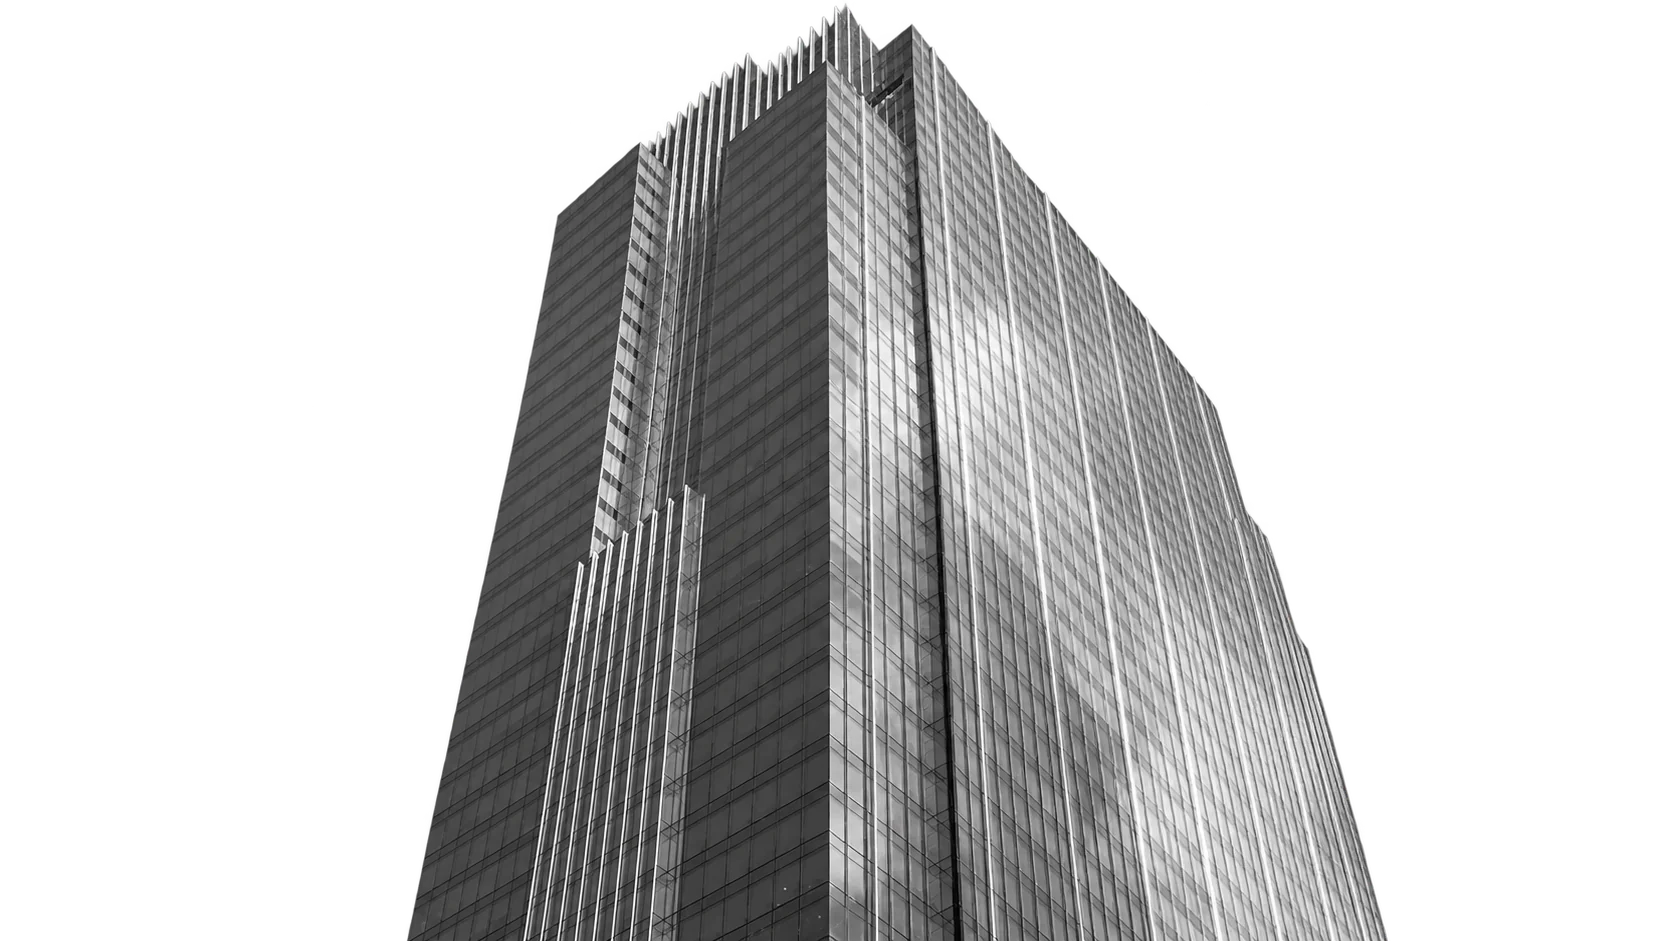
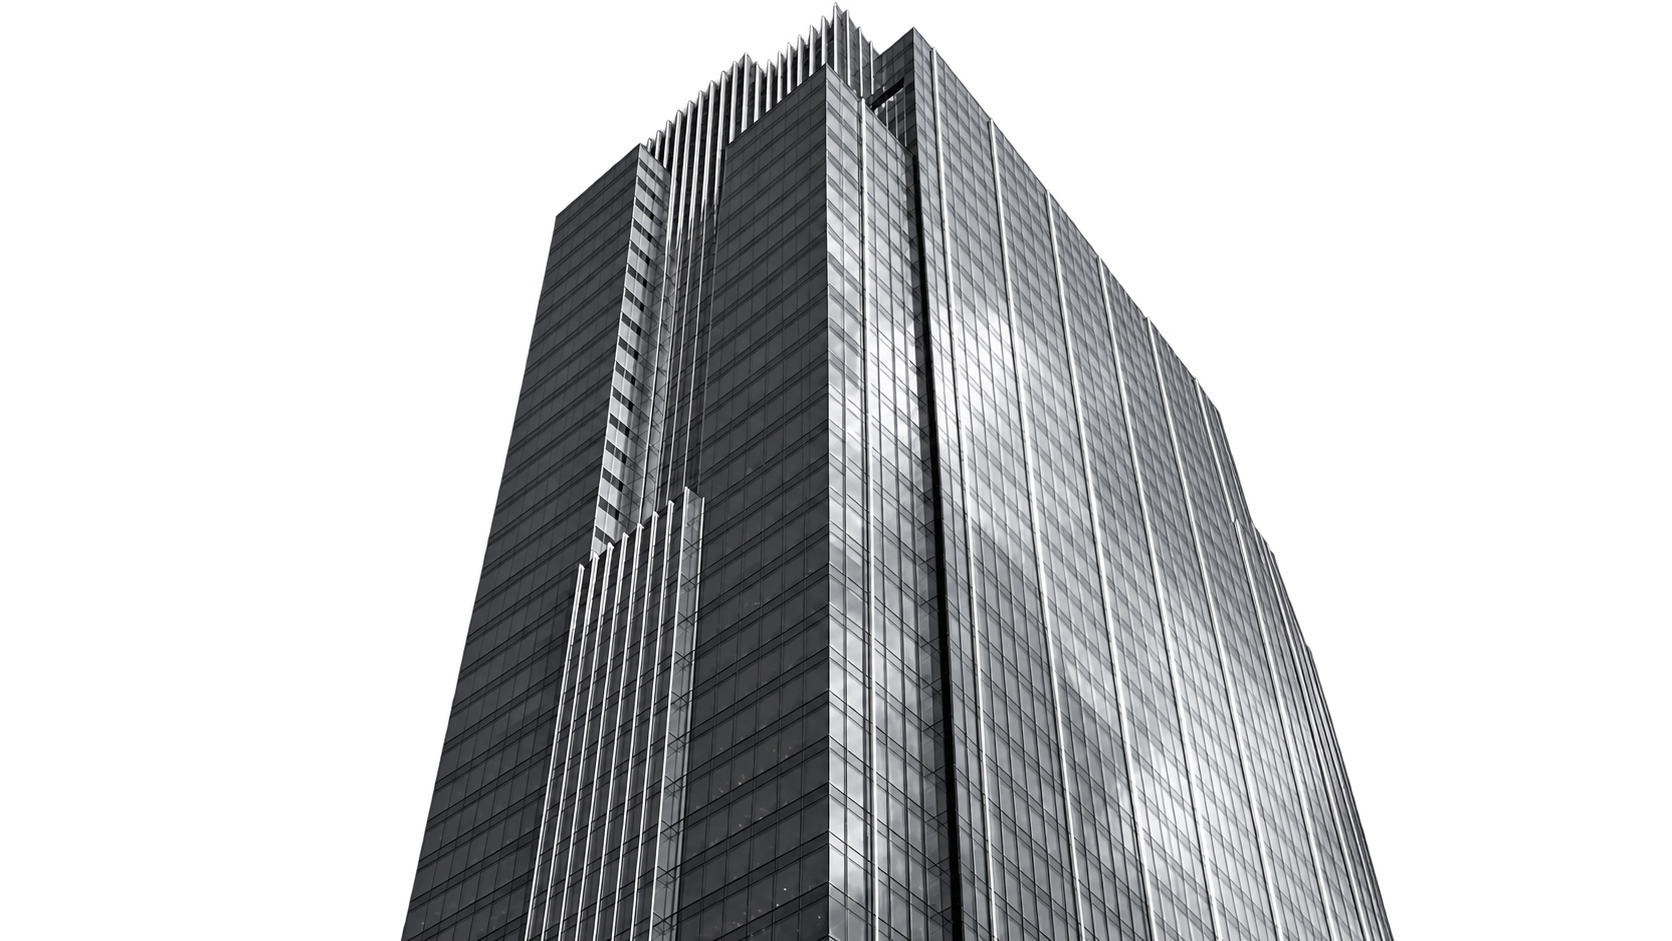
Mejorar filtros y mapa de Noir

Changed region(s): [[0.2799, 0.0, 0.8397, 1.0], [0.2488, 0.7088, 0.2799, 0.9554], [0.2177, 0.9554, 0.2799, 1.0]]

diff --git a/src/app/features/apartments/components/ApartmentMap.tsx b/src/app/features/apartments/components/ApartmentMap.tsx
@@ -1,0 +1,62 @@
+import '../styles/ApartmentMap.css'
+
+interface ApartmentMapProps {
+  location: string
+}
+
+// Referencias geográficas consultadas en OpenStreetMap; no son direcciones de los apartamentos.
+const locations = [
+  { name: 'Escazú', latitude: 9.9159921, longitude: -84.1409588 },
+  { name: 'Santa Ana', latitude: 9.9179767, longitude: -84.1915696 },
+  { name: 'Rohrmoser', latitude: 9.9420456, longitude: -84.1139429 },
+  { name: 'Curridabat', latitude: 9.9161655, longitude: -84.0308421 },
+  { name: 'Belén', latitude: 9.9792975, longitude: -84.1856200 },
+  { name: 'Tamarindo', latitude: 10.2984121, longitude: -85.8399505 },
+  { name: 'Playa Flamingo', latitude: 10.4283957, longitude: -85.7933377 },
+  { name: 'Jacó', latitude: 9.6156361, longitude: -84.6281253 },
+]
+
+const ApartmentMap = ({ location }: ApartmentMapProps) => {
+  const zone = locations.find((item) => item.name === location)
+
+  if (!zone) {
+    return null
+  }
+
+  const bounds = [
+    zone.longitude - 0.02,
+    zone.latitude - 0.012,
+    zone.longitude + 0.02,
+    zone.latitude + 0.012,
+  ].join(',')
+  const mapUrl = `https://www.openstreetmap.org/#map=14/${zone.latitude}/${zone.longitude}`
+
+  return (
+    <section className="apartment-map panel" aria-label={`Ubicación de referencia en ${location}`}>
+      <div className="apartment-map-heading">
+        <div>
+          <p className="eyebrow">La zona</p>
+          <h2>{location}</h2>
+        </div>
+        <a className="button button--glass glass" href={mapUrl} target="_blank" rel="noreferrer">
+          Abrir mapa <span aria-hidden="true">↗</span>
+        </a>
+      </div>
+      <p className="page-intro">
+        Ubicación de referencia de la zona, no la dirección exacta del apartamento.
+      </p>
+      <iframe
+        title={`Mapa de ${location}, Costa Rica`}
+        src={`https://www.openstreetmap.org/export/embed.html?bbox=${encodeURIComponent(bounds)}&layer=mapnik`}
+        loading="lazy"
+        width="100%"
+        height="320"
+      />
+      <p className="apartment-map-credit">
+        © <a href="https://www.openstreetmap.org/copyright" target="_blank" rel="noreferrer">OpenStreetMap contributors</a>
+      </p>
+    </section>
+  )
+}
+
+export default ApartmentMap

diff --git a/src/app/features/apartments/styles/ApartmentMap.css b/src/app/features/apartments/styles/ApartmentMap.css
@@ -1,0 +1,37 @@
+.apartment-map {
+  margin-top: 40px;
+}
+
+.apartment-map-heading {
+  display: flex;
+  flex-wrap: wrap;
+  align-items: center;
+  justify-content: space-between;
+  gap: 16px;
+  margin-bottom: 16px;
+}
+
+.apartment-map-heading h2 {
+  margin: 0;
+  font-size: 1.75rem;
+}
+
+.apartment-map iframe {
+  display: block;
+  width: 100%;
+  border: 0;
+  border-radius: var(--radius);
+  filter: grayscale(1);
+}
+
+.apartment-map-credit {
+  margin: 12px 0 0;
+  font-size: 0.75rem;
+  color: var(--color-muted);
+}
+
+@media (max-width: 600px) {
+  .apartment-map iframe {
+    height: 260px;
+  }
+}

diff --git a/src/app/features/apartments/pages/ApartmentDetail.tsx b/src/app/features/apartments/pages/ApartmentDetail.tsx
@@ -2,6 +2,7 @@ import { Link, useParams } from 'react-router-dom'
 import { useFetch } from '../../shared/hooks/useFetch'
 import type { Apartment } from '../types/Apartment'
 import FavoriteButton from '../../favorites/components/FavoriteButton'
+import ApartmentMap from '../components/ApartmentMap'
 import '../styles/ApartmentDetail.css'
 
 const ApartmentDetail = () => {
@@ -94,6 +95,7 @@ const ApartmentDetail = () => {
           </div>
         </div>
       </div>
+      <ApartmentMap location={apartment.location} />
     </section>
   )
 }

diff --git a/src/app/features/apartments/styles/ApartmentFilters.css b/src/app/features/apartments/styles/ApartmentFilters.css
@@ -1,11 +1,16 @@
 .apartment-filters {
-  display: flex;
-  flex: 2;
-  flex-wrap: wrap;
+  display: grid;
+  grid-template-columns: repeat(2, minmax(0, 1fr));
+  align-items: end;
   gap: 16px;
 }
 
 .apartment-filter {
-  flex: 1;
-  min-width: 140px;
+  min-width: 0;
+}
+
+@media (max-width: 400px) {
+  .apartment-filters {
+    grid-template-columns: 1fr;
+  }
 }

diff --git a/src/app/features/apartments/styles/Apartments.css b/src/app/features/apartments/styles/Apartments.css
@@ -1,7 +1,13 @@
 .apartments-toolbar {
-  display: flex;
-  flex-wrap: wrap;
-  align-items: flex-end;
+  display: grid;
+  grid-template-columns: minmax(0, 1fr) minmax(0, 2fr);
+  align-items: end;
   gap: 20px;
   margin-bottom: 24px;
+}
+
+@media (max-width: 700px) {
+  .apartments-toolbar {
+    grid-template-columns: 1fr;
+  }
 }

diff --git a/src/app/features/apartments/styles/SearchBar.css b/src/app/features/apartments/styles/SearchBar.css
@@ -1,4 +1,3 @@
 .search-bar {
-  flex: 2;
-  min-width: 180px;
+  min-width: 0;
 }

diff --git a/README.md b/README.md
@@ -4,6 +4,9 @@ Aplicación web y móvil para promocionar apartamentos de lujo en Costa Rica. In
 búsqueda, filtros y paginación, el detalle de cada apartamento, una lista de favoritos y un
 formulario de contacto.
 
+El detalle incluye un mapa de referencia de la zona con OpenStreetMap. Las ubicaciones son
+aproximadas; no representan direcciones exactas de los apartamentos. El mapa requiere internet.
+
 Proyecto #1 del curso IF0009 Desarrollo de Software IV, Universidad de Costa Rica, Sede de
 Occidente, II ciclo 2026.
 
@@ -33,9 +36,10 @@ git clone https://github.com/keyloor/proyecto-luxury.git
 cd proyecto-luxury
 npm install
 ```
+
 ## Requisitos
 
-- Node.js 20.19 o superior y npm
+- Node.js 22.12 o superior y npm
 - Git
 - Android Studio, solo para la versión Android
 
@@ -48,3 +52,29 @@ npm install
 | `npm run preview` | Sirve la carpeta `dist/` para probarla |
 | `npx cap sync android` | Copia `dist/` al proyecto Android |
 | `npx cap open android` | Abre el proyecto en Android Studio |
+
+## Ejecutar en Android
+
+Después de instalar las dependencias, generar la web y copiarla al proyecto Android:
+
+```bash
+npm run build
+npx cap sync android
+npx cap open android
+```
+
+En Android Studio, seleccionar un emulador o dispositivo conectado y ejecutar la aplicación.
+Después de cambiar la web, repetir la compilación y la sincronización antes de volver a ejecutarla.
+
+## Evidencia de Android
+
+Capturas de la versión probada en Android antes del último ajuste visual de la web.
+
+| Pantalla | Captura |
+|---|---|
+| Inicio | [Ver inicio](evidencias/android/01-inicio.png) |
+| Catálogo filtrado | [Ver catálogo](evidencias/android/02-catalogo.png) |
+| Detalle del apartamento | [Ver detalle](evidencias/android/03-detalle.png) |
+| Menú abierto | [Ver menú](evidencias/android/04-menu.png) |
+| Favoritos | [Ver favoritos](evidencias/android/05-favoritos.png) |
+| Validación del contacto | [Ver validación](evidencias/android/06-contacto.png) |
